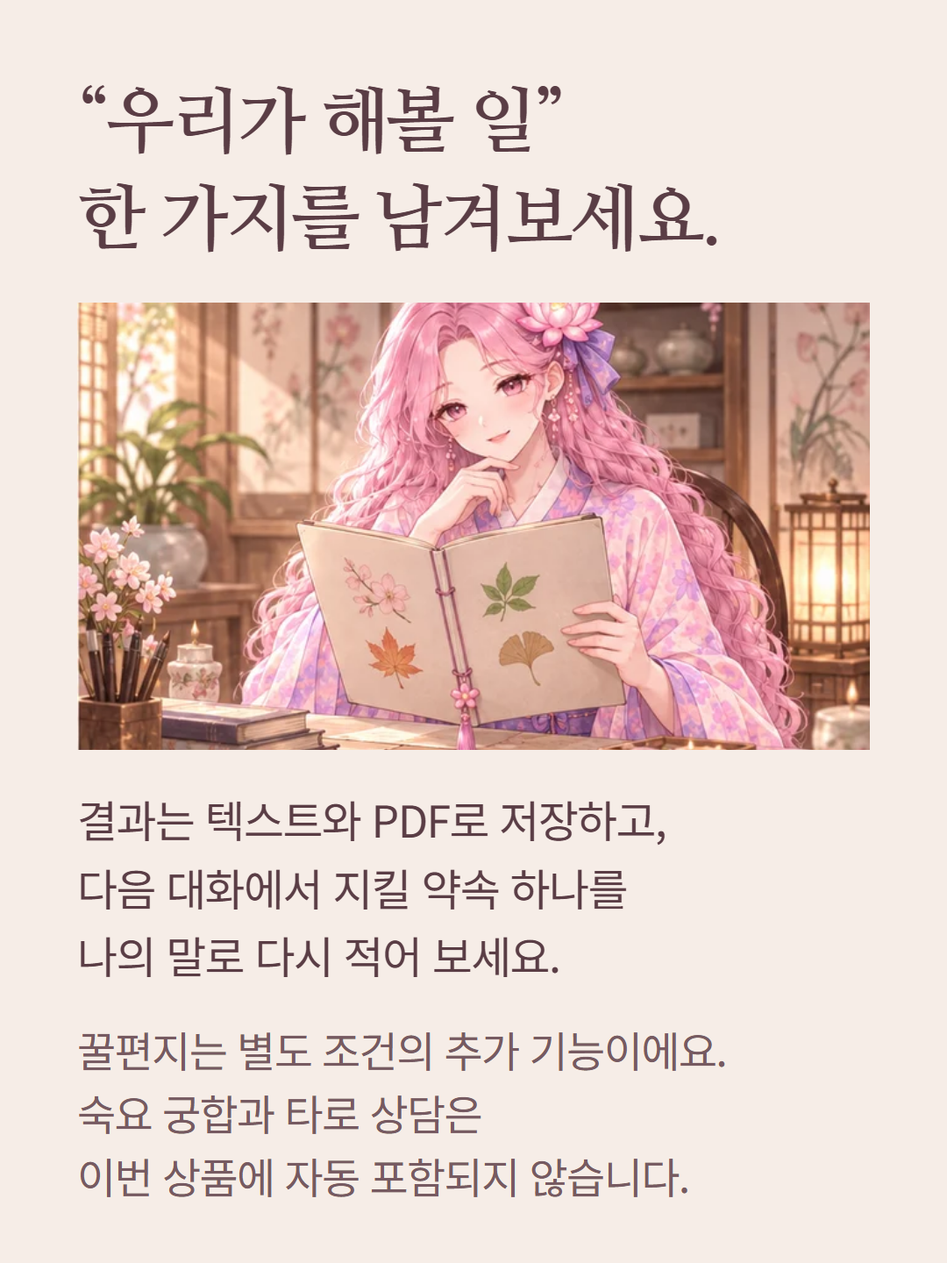
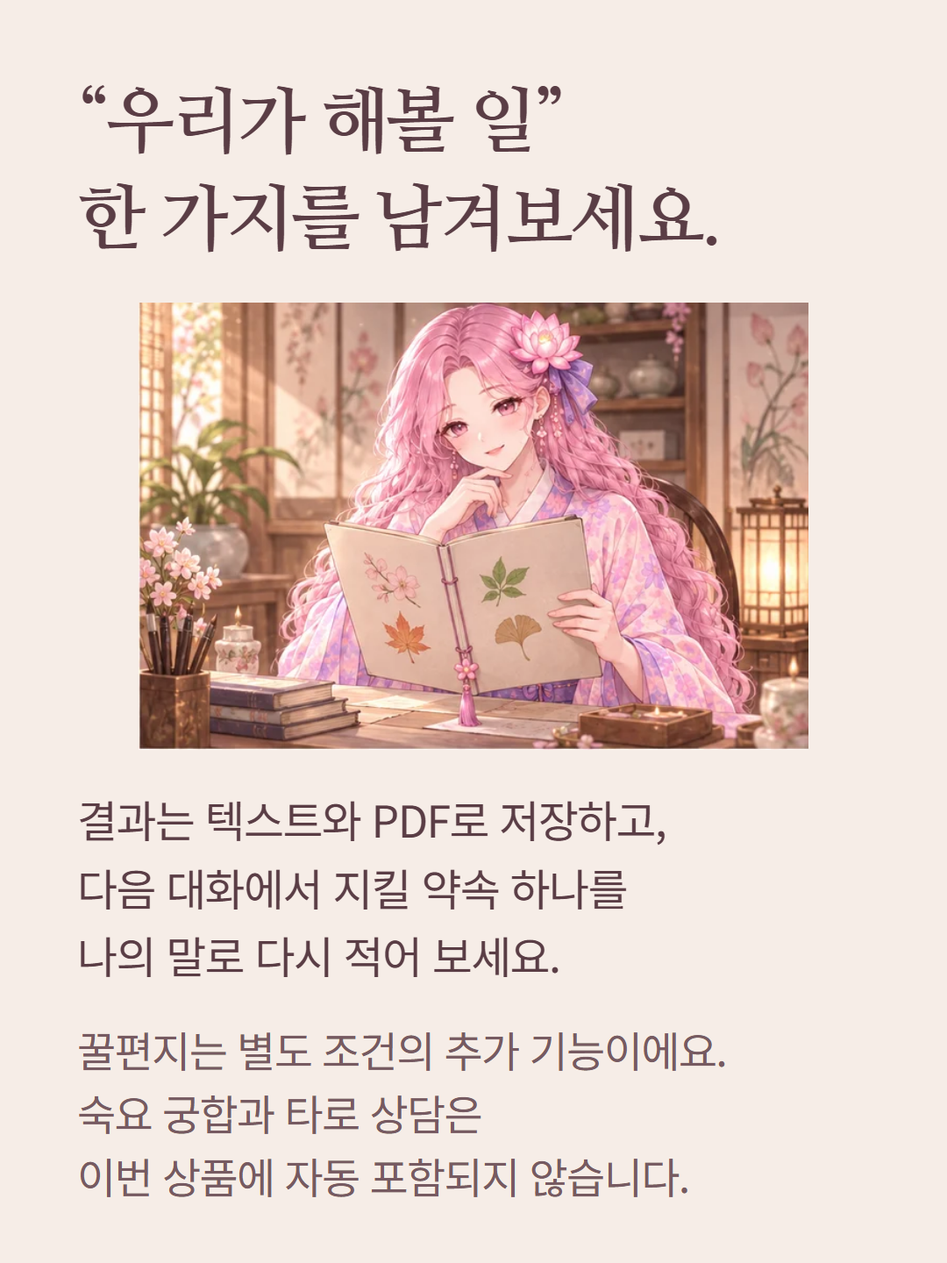
찻집 상세 패널: 잘리던 삽화를 원본 비율로 다시 렌더
- 사주·숙요 첫 장면은 높이를 원본 비율로, 사주 궁합 8장은 높이를 지키고 폭을 원본 비율로 가운데 정렬
- 타로 5장 마지막 장면은 세로 원본을 가로로 자르던 것을 같은 찻집 원본의 가로판으로 바꿔 통째로 보여줌
- 렌더 단계의 넘침·이미지 잘림 검사를 모두 통과(렌더 결과는 바뀐 패널만 갱신)

Changed region(s): [[0.0611, 0.2188, 0.9167, 0.5938]]

diff --git a/content/product-details/tea-tarot-five/editable-layout.html b/content/product-details/tea-tarot-five/editable-layout.html
@@ -1,1 +1,1 @@
-<!doctype html><html lang="ko"><meta charset="utf-8"><link rel="stylesheet" href="/styles/service-intro-fonts.css"><link rel="stylesheet" href="/source/layout.css"><body><section class="panel p1" data-num="1"><h1>먼저 연락할까요?<br>그 전에 살펴볼 마음.</h1><p>하고 싶은 말, 망설이는 이유,<br>지켜야 할 선을 나누어 읽어요.</p><div class="still-life"><img class="card" src="/images/fortune-tea-house/moonlight-tarot-card-back.webp" alt=""><img class="pig" src="/images/fortune-tea-house/flower-pig-tea.webp" alt=""></div><p class="sign">운명의 찻집 · 타로 5장<br>복잡한 마음에, 다섯 개의 질문.</p></section><section class="panel p2" data-num="2"><h2>연락하기 전,<br>다섯 번의 작은 멈춤.</h2><p class="label">5장 배열 · 먼저 연락해도 괜찮을까?</p><ol class="pauses"><li><h3>내가 바라는 것</h3><p>정말 전하고 싶은 마음은 무엇인지.</p></li><li><h3>현재 소통 양상</h3><p>지금 두 사람의 대화는 어떤지.</p></li><li><h3>접근의 걸림돌</h3><p>다가가기 어렵게 하는 조건은.</p></li><li><h3>존중할 경계</h3><p>넘지 말아야 할 선은 어디인지.</p></li><li><h3>연락을 선택했을 때의 흐름</h3><p>내가 고른 행동을 어떻게 이어갈지.</p></li></ol></section><section class="panel p3" data-num="3"><h2>새 인연과 돈의 습관도,<br>다른 자리로 읽어요.</h2><section class="other"><h3>새로운 인연을 맞이하는 문</h3><p>준비 상태 · 드러낼 매력<br>내려놓을 패턴 · 만남을 넓힐 행동<br>관계를 시작할 때의 조언</p></section><section class="other"><h3>돈을 대하는 내 패턴</h3><p>현재 태도 · 자원 활용<br>소모 패턴 · 놓친 관리 과제<br>실천할 습관</p></section><p class="note">상담 한 번에 배열 하나를 선택해요.<br>세 배열을 모두 받는 묶음이 아닙니다.<br>돈 배열은 수익을 예측·보장하지 않아요.</p></section><section class="panel p4" data-num="4"><h2>더 정확한 등급보다,<br>더 나누어 볼 질문.</h2><blockquote>3장은 매듭과 한 걸음을.<br>5장은 선택의 조건을 더 나누어.</blockquote><p>각 카드에는 같은 읽기 원칙이 있어요.</p><div class="reading"><p>상징과 정·역방향의 핵심 의미</p><p>지금 상황에 비추어 본 모습</p><p>내 질문과 연결되는 지점</p><p>선택할 행동과 조심할 조건</p></div><p class="note">5장이라고 상대의 마음을<br>더 확실하게 알아내는 것은 아니에요.</p></section><section class="panel p5" data-num="5"><h2>마음을 전하는 말에도,<br>쉴 틈을 남겨요.</h2><p class="label">대화와 경계를 연결한 편집 예시</p><div class="message"><p>다음 주에 차 한 잔 어때요?<br>요즘 여유가 없다면 괜찮아요.<br>편할 때 알려 주세요.</p></div><div class="margin-notes"><section><h3>내 마음은 분명하게</h3><p>만나고 싶다는 뜻을 숨기지 않아요.</p></section><section><h3>상대의 선택은 열어 두고</h3><p>거절과 침묵을 재촉하지 않아요.</p></section></div><p class="note">가상의 대화 예시예요. 상대가 연락을<br>원하지 않으면 그 의사를 존중해요.</p></section><section class="panel p6" data-num="6"><h2>다섯 장을 지나,<br>하나의 이야기로.</h2><div class="chapters five"><section><b>질문</b><p>핵심 답변과 우선할 조언.</p></section><section><b>카드</b><p>다섯 장의 개별 해석,<br>카드 사이에서 이어지는 의미.</p></section><section><b>상담</b><p>종합 해석과 연이가 건넨 말.<br>가능한 선택과 행동 조언.</p></section><section><b>이후</b><p>앞으로 한 달의 흐름, 관계 처방,<br>실행 체크리스트.</p></section><section><b>마무리</b><p>지금의 나에게 남기는 메시지.</p></section></div><p class="note">본문은 공백 제외 11,200자 이상이에요.<br>연결·선택은 내용이 있을 때 표시돼요.<br>사주 해석은 포함하지 않아요.</p></section><section class="panel p7" data-num="7"><h2>질문을 적고,<br>다섯 자리를 골라요.</h2><div class="steps"><section><h3>상황과 질문을 적어요</h3><p>관계 단계나 실제로 겪는 일을<br>아는 만큼만 알려 주세요.</p></section><section><h3>맞는 5장 배열을 확인해요</h3><p>로그인 후 직접 다섯 자리를 고르거나<br>자동 선택으로 확정할 수 있어요.</p></section><section><h3>카드를 확인하고 상담을 시작해요</h3><p>결제 후 돌아오거나 다시 시도해도<br>확정한 같은 카드를 읽어요.</p></section></div><p class="note">3장 배열로 바꾸면 다른 상품입니다.<br>카드 수와 화면의 가격을 먼저 확인해요.</p></section><section class="panel p8" data-num="8"><h2>길게 읽었어도,<br>실천은 하나부터.</h2><div class="notebook"><h3>이번 주에 해볼 일</h3><p>___________________</p><h3>내가 지키고 싶은 선</h3><p>___________________</p><h3>다시 확인할 현실의 정보</h3><p>___________________</p></div><p>상담을 텍스트 파일로 저장하고,<br>실제로 달라진 점을 적어 보세요.</p><p class="note">꿀편지는 별도 조건으로 요청해요.<br>기본 상담에 자동 포함되지 않습니다.</p></section><section class="panel p9" data-num="9"><h2>정답을 기다리기보다,<br>내 마음을 알아가요.</h2><img class="moon-window" src="/images/fortune-tea-house/premium-tea-house-mobile.webp" alt=""><p>다가갈 때와 쉬어 갈 때,<br>나의 바람과 상대의 경계를 함께.</p><p class="note">연이는 서비스 캐릭터이며<br>상담 문장은 AI가 작성합니다.<br>사람이 직접 답하는 상담은 아닙니다.</p><p class="sign">운명의 찻집 · 타로 5장<br>선택의 여지를 남기는 다정한 상담.</p></section></body></html>
+<!doctype html><html lang="ko"><meta charset="utf-8"><link rel="stylesheet" href="/styles/service-intro-fonts.css"><link rel="stylesheet" href="/source/layout.css"><body><section class="panel p1" data-num="1"><h1>먼저 연락할까요?<br>그 전에 살펴볼 마음.</h1><p>하고 싶은 말, 망설이는 이유,<br>지켜야 할 선을 나누어 읽어요.</p><div class="still-life"><img class="card" src="/images/fortune-tea-house/moonlight-tarot-card-back.webp" alt=""><img class="pig" src="/images/fortune-tea-house/flower-pig-tea.webp" alt=""></div><p class="sign">운명의 찻집 · 타로 5장<br>복잡한 마음에, 다섯 개의 질문.</p></section><section class="panel p2" data-num="2"><h2>연락하기 전,<br>다섯 번의 작은 멈춤.</h2><p class="label">5장 배열 · 먼저 연락해도 괜찮을까?</p><ol class="pauses"><li><h3>내가 바라는 것</h3><p>정말 전하고 싶은 마음은 무엇인지.</p></li><li><h3>현재 소통 양상</h3><p>지금 두 사람의 대화는 어떤지.</p></li><li><h3>접근의 걸림돌</h3><p>다가가기 어렵게 하는 조건은.</p></li><li><h3>존중할 경계</h3><p>넘지 말아야 할 선은 어디인지.</p></li><li><h3>연락을 선택했을 때의 흐름</h3><p>내가 고른 행동을 어떻게 이어갈지.</p></li></ol></section><section class="panel p3" data-num="3"><h2>새 인연과 돈의 습관도,<br>다른 자리로 읽어요.</h2><section class="other"><h3>새로운 인연을 맞이하는 문</h3><p>준비 상태 · 드러낼 매력<br>내려놓을 패턴 · 만남을 넓힐 행동<br>관계를 시작할 때의 조언</p></section><section class="other"><h3>돈을 대하는 내 패턴</h3><p>현재 태도 · 자원 활용<br>소모 패턴 · 놓친 관리 과제<br>실천할 습관</p></section><p class="note">상담 한 번에 배열 하나를 선택해요.<br>세 배열을 모두 받는 묶음이 아닙니다.<br>돈 배열은 수익을 예측·보장하지 않아요.</p></section><section class="panel p4" data-num="4"><h2>더 정확한 등급보다,<br>더 나누어 볼 질문.</h2><blockquote>3장은 매듭과 한 걸음을.<br>5장은 선택의 조건을 더 나누어.</blockquote><p>각 카드에는 같은 읽기 원칙이 있어요.</p><div class="reading"><p>상징과 정·역방향의 핵심 의미</p><p>지금 상황에 비추어 본 모습</p><p>내 질문과 연결되는 지점</p><p>선택할 행동과 조심할 조건</p></div><p class="note">5장이라고 상대의 마음을<br>더 확실하게 알아내는 것은 아니에요.</p></section><section class="panel p5" data-num="5"><h2>마음을 전하는 말에도,<br>쉴 틈을 남겨요.</h2><p class="label">대화와 경계를 연결한 편집 예시</p><div class="message"><p>다음 주에 차 한 잔 어때요?<br>요즘 여유가 없다면 괜찮아요.<br>편할 때 알려 주세요.</p></div><div class="margin-notes"><section><h3>내 마음은 분명하게</h3><p>만나고 싶다는 뜻을 숨기지 않아요.</p></section><section><h3>상대의 선택은 열어 두고</h3><p>거절과 침묵을 재촉하지 않아요.</p></section></div><p class="note">가상의 대화 예시예요. 상대가 연락을<br>원하지 않으면 그 의사를 존중해요.</p></section><section class="panel p6" data-num="6"><h2>다섯 장을 지나,<br>하나의 이야기로.</h2><div class="chapters five"><section><b>질문</b><p>핵심 답변과 우선할 조언.</p></section><section><b>카드</b><p>다섯 장의 개별 해석,<br>카드 사이에서 이어지는 의미.</p></section><section><b>상담</b><p>종합 해석과 연이가 건넨 말.<br>가능한 선택과 행동 조언.</p></section><section><b>이후</b><p>앞으로 한 달의 흐름, 관계 처방,<br>실행 체크리스트.</p></section><section><b>마무리</b><p>지금의 나에게 남기는 메시지.</p></section></div><p class="note">본문은 공백 제외 11,200자 이상이에요.<br>연결·선택은 내용이 있을 때 표시돼요.<br>사주 해석은 포함하지 않아요.</p></section><section class="panel p7" data-num="7"><h2>질문을 적고,<br>다섯 자리를 골라요.</h2><div class="steps"><section><h3>상황과 질문을 적어요</h3><p>관계 단계나 실제로 겪는 일을<br>아는 만큼만 알려 주세요.</p></section><section><h3>맞는 5장 배열을 확인해요</h3><p>로그인 후 직접 다섯 자리를 고르거나<br>자동 선택으로 확정할 수 있어요.</p></section><section><h3>카드를 확인하고 상담을 시작해요</h3><p>결제 후 돌아오거나 다시 시도해도<br>확정한 같은 카드를 읽어요.</p></section></div><p class="note">3장 배열로 바꾸면 다른 상품입니다.<br>카드 수와 화면의 가격을 먼저 확인해요.</p></section><section class="panel p8" data-num="8"><h2>길게 읽었어도,<br>실천은 하나부터.</h2><div class="notebook"><h3>이번 주에 해볼 일</h3><p>___________________</p><h3>내가 지키고 싶은 선</h3><p>___________________</p><h3>다시 확인할 현실의 정보</h3><p>___________________</p></div><p>상담을 텍스트 파일로 저장하고,<br>실제로 달라진 점을 적어 보세요.</p><p class="note">꿀편지는 별도 조건으로 요청해요.<br>기본 상담에 자동 포함되지 않습니다.</p></section><section class="panel p9" data-num="9"><h2>정답을 기다리기보다,<br>내 마음을 알아가요.</h2><img class="moon-window" src="/images/fortune-tea-house/premium-tea-house-desktop.webp" alt=""><p>다가갈 때와 쉬어 갈 때,<br>나의 바람과 상대의 경계를 함께.</p><p class="note">연이는 서비스 캐릭터이며<br>상담 문장은 AI가 작성합니다.<br>사람이 직접 답하는 상담은 아닙니다.</p><p class="sign">운명의 찻집 · 타로 5장<br>선택의 여지를 남기는 다정한 상담.</p></section></body></html>

diff --git a/content/product-details/tea-saju-compat/layout.css b/content/product-details/tea-saju-compat/layout.css
@@ -1,2 +1,2 @@
-*{box-sizing:border-box}body{margin:0;background:#f6ede7;color:#5a3d45;font-family:'Yeongnyangi Noto',sans-serif}.panel{width:1080px;height:1440px;padding:84px 88px;position:relative;overflow:hidden;background:#f6ede7}h1,h2,h3,p{margin:0;word-break:keep-all}h1,h2{font-family:'Yeongnyangi Myeongjo',serif;font-size:82px;line-height:1.35;letter-spacing:-3px;margin-bottom:40px}h3{font-size:50px;line-height:1.4;margin-bottom:14px}p{font-size:50px;line-height:1.55;letter-spacing:-1.6px}.note,.label,.sign{font-size:48px;line-height:1.5}.note{color:#765a61;margin-top:32px}.label{margin-bottom:32px}.sign{margin-top:36px}.two-voices{margin:40px 0 10px}.two-voices p{padding:18px 0}.two-voices p+p{text-align:right}.cups{display:flex;align-items:center;justify-content:center;gap:155px;height:290px;margin:30px 0}.cups i{display:block;width:210px;height:160px;background:#c59a80;border-radius:12px 12px 100px 100px;position:relative;border:1px solid #725246}.cups i:before{content:'';position:absolute;left:12px;right:12px;top:10px;height:28px;border-radius:50%;background:#7f5545}.cups i:after{content:'';position:absolute;width:52px;height:73px;border:1px solid #725246;border-radius:50%;right:-43px;top:27px}.cups i+i{background:#e2c8b1;transform:scaleX(-1)}.person{padding:24px 0;border-top:1px solid #bea3a1}.other{text-align:right}.together{padding:32px;background:#e9d8d0}.person p,.together p{font-size:48px}dl{margin:40px 0 0}dl div{padding:18px 0;border-top:1px solid #bea3a1}dt{font-size:50px;line-height:1.4;font-weight:700}dd{font-size:48px;line-height:1.5;margin:10px 0 0;letter-spacing:-1.6px;word-break:keep-all}.p4{background:#eadbd5}ol{margin:40px 0;padding-left:65px}li{font-size:50px;line-height:1.5;word-break:keep-all;padding:8px 0;border-bottom:1px solid #bea3a1}.reading-path section{padding:26px 0;border-top:1px solid #bea3a1}.reading-path p{font-size:48px}.p6{background:#e6dfd6}.dialogue{margin:35px 0 45px}.dialogue p{padding:35px 30px;background:#f9f0e5;font-size:48px}.dialogue p+p{margin:28px 0 0 65px;background:#d8d0c2}.scene{display:block;width:904px;height:510px;object-fit:cover;margin:35px 0 40px}.p9{background:#4e3642;color:#f8eee4}.p9 p+p{margin-top:35px}.p9 .note{color:#e4cdd0}.p9 .cups{margin:40px 0}
+*{box-sizing:border-box}body{margin:0;background:#f6ede7;color:#5a3d45;font-family:'Yeongnyangi Noto',sans-serif}.panel{width:1080px;height:1440px;padding:84px 88px;position:relative;overflow:hidden;background:#f6ede7}h1,h2,h3,p{margin:0;word-break:keep-all}h1,h2{font-family:'Yeongnyangi Myeongjo',serif;font-size:82px;line-height:1.35;letter-spacing:-3px;margin-bottom:40px}h3{font-size:50px;line-height:1.4;margin-bottom:14px}p{font-size:50px;line-height:1.55;letter-spacing:-1.6px}.note,.label,.sign{font-size:48px;line-height:1.5}.note{color:#765a61;margin-top:32px}.label{margin-bottom:32px}.sign{margin-top:36px}.two-voices{margin:40px 0 10px}.two-voices p{padding:18px 0}.two-voices p+p{text-align:right}.cups{display:flex;align-items:center;justify-content:center;gap:155px;height:290px;margin:30px 0}.cups i{display:block;width:210px;height:160px;background:#c59a80;border-radius:12px 12px 100px 100px;position:relative;border:1px solid #725246}.cups i:before{content:'';position:absolute;left:12px;right:12px;top:10px;height:28px;border-radius:50%;background:#7f5545}.cups i:after{content:'';position:absolute;width:52px;height:73px;border:1px solid #725246;border-radius:50%;right:-43px;top:27px}.cups i+i{background:#e2c8b1;transform:scaleX(-1)}.person{padding:24px 0;border-top:1px solid #bea3a1}.other{text-align:right}.together{padding:32px;background:#e9d8d0}.person p,.together p{font-size:48px}dl{margin:40px 0 0}dl div{padding:18px 0;border-top:1px solid #bea3a1}dt{font-size:50px;line-height:1.4;font-weight:700}dd{font-size:48px;line-height:1.5;margin:10px 0 0;letter-spacing:-1.6px;word-break:keep-all}.p4{background:#eadbd5}ol{margin:40px 0;padding-left:65px}li{font-size:50px;line-height:1.5;word-break:keep-all;padding:8px 0;border-bottom:1px solid #bea3a1}.reading-path section{padding:26px 0;border-top:1px solid #bea3a1}.reading-path p{font-size:48px}.p6{background:#e6dfd6}.dialogue{margin:35px 0 45px}.dialogue p{padding:35px 30px;background:#f9f0e5;font-size:48px}.dialogue p+p{margin:28px 0 0 65px;background:#d8d0c2}.scene{display:block;width:auto;max-width:904px;height:510px;margin:35px auto 40px}.p9{background:#4e3642;color:#f8eee4}.p9 p+p{margin-top:35px}.p9 .note{color:#e4cdd0}.p9 .cups{margin:40px 0}
 ol.twelve{margin:28px 0}ol.twelve li{font-size:40px;line-height:1.35;padding:4px 0}.twelve+.note{font-size:40px;margin-top:20px}

diff --git a/content/product-details/tea-tarot-five/layout.css b/content/product-details/tea-tarot-five/layout.css
@@ -1,2 +1,2 @@
-*{box-sizing:border-box}body{margin:0;background:#f6ece4;color:#573844;font-family:'Yeongnyangi Noto',sans-serif}.panel{width:1080px;height:1440px;padding:84px 88px;position:relative;overflow:hidden;background:#f6ece4}h1,h2,h3,p{margin:0;word-break:keep-all}h1,h2{font-family:'Yeongnyangi Myeongjo',serif;font-size:82px;line-height:1.35;letter-spacing:-3px;margin-bottom:40px}h3{font-size:50px;line-height:1.4;margin-bottom:12px}p{font-size:50px;line-height:1.55;letter-spacing:-1.6px}.note,.label{font-size:48px;line-height:1.5;color:#775b63}.note{margin-top:30px}.label{margin-bottom:26px}.p1,.p9{background:#372336;color:#fff0d9}.sign{font-size:48px;color:#edc9ae;margin-top:28px}.still-life{height:530px;position:relative;margin:35px 0}.card{position:absolute;left:90px;top:30px;width:285px;height:428px;transform:rotate(-12deg)}.pig{position:absolute;right:15px;bottom:0;width:460px;height:460px}.pauses{list-style:none;padding:0;margin:0}.pauses li{padding:14px 0;border-top:1px solid #c3a5a0}.pauses p{font-size:48px}.other{padding:36px 0;border-top:1px solid #c3a5a0}.other p{font-size:48px;line-height:1.65}.p3{background:#eaded8}blockquote{font-family:'Yeongnyangi Myeongjo',serif;font-size:58px;line-height:1.5;margin:40px 0;padding:25px 0;border-block:1px solid #b89c99}.reading{margin:34px 0}.reading p{padding:21px 0;border-bottom:1px solid #c3a5a0;font-size:48px}.message{padding:20px 34px;background:#e7d4cd;margin:36px 0}.message p{font-family:'Yeongnyangi Myeongjo',serif;font-size:54px;line-height:1.6}.margin-notes section{padding:14px 0;border-bottom:1px solid #c3a5a0}.margin-notes p{font-size:48px}.chapters section{padding:28px 0 28px 200px;border-top:1px solid #c3a5a0;position:relative}.chapters b{position:absolute;left:0;top:29px;font-size:50px;line-height:1.5;color:#775b63}.chapters p{font-size:48px}.steps section{padding:26px 0;border-top:1px solid #c3a5a0}.steps p{font-size:48px}.notebook{padding:36px 32px;background:#edddd0;margin:32px 0 44px}.notebook h3{margin-top:22px}.notebook p{color:#9e8279;margin-bottom:8px;letter-spacing:0}.moon-window{display:block;width:904px;height:420px;object-fit:cover;object-position:50% 45%;margin:30px 0}.p9 .note{color:#e2cdd9}.p9 p+p{margin-top:28px}
+*{box-sizing:border-box}body{margin:0;background:#f6ece4;color:#573844;font-family:'Yeongnyangi Noto',sans-serif}.panel{width:1080px;height:1440px;padding:84px 88px;position:relative;overflow:hidden;background:#f6ece4}h1,h2,h3,p{margin:0;word-break:keep-all}h1,h2{font-family:'Yeongnyangi Myeongjo',serif;font-size:82px;line-height:1.35;letter-spacing:-3px;margin-bottom:40px}h3{font-size:50px;line-height:1.4;margin-bottom:12px}p{font-size:50px;line-height:1.55;letter-spacing:-1.6px}.note,.label{font-size:48px;line-height:1.5;color:#775b63}.note{margin-top:30px}.label{margin-bottom:26px}.p1,.p9{background:#372336;color:#fff0d9}.sign{font-size:48px;color:#edc9ae;margin-top:28px}.still-life{height:530px;position:relative;margin:35px 0}.card{position:absolute;left:90px;top:30px;width:285px;height:428px;transform:rotate(-12deg)}.pig{position:absolute;right:15px;bottom:0;width:460px;height:460px}.pauses{list-style:none;padding:0;margin:0}.pauses li{padding:14px 0;border-top:1px solid #c3a5a0}.pauses p{font-size:48px}.other{padding:36px 0;border-top:1px solid #c3a5a0}.other p{font-size:48px;line-height:1.65}.p3{background:#eaded8}blockquote{font-family:'Yeongnyangi Myeongjo',serif;font-size:58px;line-height:1.5;margin:40px 0;padding:25px 0;border-block:1px solid #b89c99}.reading{margin:34px 0}.reading p{padding:21px 0;border-bottom:1px solid #c3a5a0;font-size:48px}.message{padding:20px 34px;background:#e7d4cd;margin:36px 0}.message p{font-family:'Yeongnyangi Myeongjo',serif;font-size:54px;line-height:1.6}.margin-notes section{padding:14px 0;border-bottom:1px solid #c3a5a0}.margin-notes p{font-size:48px}.chapters section{padding:28px 0 28px 200px;border-top:1px solid #c3a5a0;position:relative}.chapters b{position:absolute;left:0;top:29px;font-size:50px;line-height:1.5;color:#775b63}.chapters p{font-size:48px}.steps section{padding:26px 0;border-top:1px solid #c3a5a0}.steps p{font-size:48px}.notebook{padding:36px 32px;background:#edddd0;margin:32px 0 44px}.notebook h3{margin-top:22px}.notebook p{color:#9e8279;margin-bottom:8px;letter-spacing:0}.moon-window{display:block;width:auto;max-width:904px;height:420px;margin:30px auto}.p9 .note{color:#e2cdd9}.p9 p+p{margin-top:28px}
 .chapters.five section{padding:20px 0 20px 200px}.chapters.five b{top:21px}.chapters.five p{font-size:44px}.five+.note{font-size:40px;line-height:1.45;margin-top:20px}

diff --git a/content/product-details/tea-sukuyo/layout.css b/content/product-details/tea-sukuyo/layout.css
@@ -1,2 +1,2 @@
-*{box-sizing:border-box}body{margin:0;background:#eceaf1;color:#39374e;font-family:'Yeongnyangi Noto',sans-serif}.panel{width:1080px;height:1440px;padding:84px 88px;position:relative;overflow:hidden;background:#eceaf1}h1,h2,h3,p{margin:0;word-break:keep-all}h1,h2{font-family:'Yeongnyangi Myeongjo',serif;font-size:82px;line-height:1.35;letter-spacing:-3px;margin-bottom:40px}h3{font-size:50px;line-height:1.4;margin-bottom:14px}p{font-size:50px;line-height:1.55;letter-spacing:-1.6px}.note,.label,.sign{font-size:48px;line-height:1.5}.note{color:#615b73;margin-top:32px}.label{margin-bottom:32px}.sign{margin-top:35px}.p1{background:#343448;color:#f5eadd}.scene{display:block;width:904px;height:530px;object-fit:cover;margin:32px 0 40px}.moons{display:flex;gap:35px;margin:45px 0 45px}.moons>div{width:435px;height:360px;border-radius:50%;background:#d4ccdf;display:flex;flex-direction:column;align-items:center;justify-content:center}.moons>div+div{background:#e0d2c9}.moons p{font-size:48px}.connection{margin:50px 0;padding:32px 0;border-block:1px solid #b0a8bf}.connection p{font-size:48px}dl{margin:48px 0 0}dl div{padding:17px 0;border-top:1px solid #b0a8bf}dt{font-size:50px;line-height:1.4;font-weight:700}dd{font-size:48px;line-height:1.5;margin:12px 0 0;letter-spacing:-1.6px;word-break:keep-all}.p4{background:#dfdce8}.direction{padding:20px 0;border-top:1px solid #b0a8bf}.direction p{font-size:48px}.reverse{text-align:right;margin-bottom:40px}ol{margin:38px 0;padding-left:60px}li{font-size:48px;line-height:1.5;word-break:keep-all;letter-spacing:-1.5px;padding:13px 0;border-bottom:1px solid #b0a8bf}.p6{background:#f3e8e1}blockquote{font-family:'Yeongnyangi Myeongjo',serif;font-size:51px;line-height:1.65;letter-spacing:-1px;word-break:keep-all;margin:30px 0 35px}.practice{border-block:1px solid #b7a0a5;padding:30px 0}.practice p{font-size:48px}.p8{background:#343448;color:#f5eadd}.p8 .note{color:#dad2e4}.pig{display:block;width:330px;height:330px;object-fit:contain;margin:35px auto}.p8 p{margin-top:28px}
+*{box-sizing:border-box}body{margin:0;background:#eceaf1;color:#39374e;font-family:'Yeongnyangi Noto',sans-serif}.panel{width:1080px;height:1440px;padding:84px 88px;position:relative;overflow:hidden;background:#eceaf1}h1,h2,h3,p{margin:0;word-break:keep-all}h1,h2{font-family:'Yeongnyangi Myeongjo',serif;font-size:82px;line-height:1.35;letter-spacing:-3px;margin-bottom:40px}h3{font-size:50px;line-height:1.4;margin-bottom:14px}p{font-size:50px;line-height:1.55;letter-spacing:-1.6px}.note,.label,.sign{font-size:48px;line-height:1.5}.note{color:#615b73;margin-top:32px}.label{margin-bottom:32px}.sign{margin-top:35px}.p1{background:#343448;color:#f5eadd}.scene{display:block;width:904px;height:auto;margin:32px 0 40px}.moons{display:flex;gap:35px;margin:45px 0 45px}.moons>div{width:435px;height:360px;border-radius:50%;background:#d4ccdf;display:flex;flex-direction:column;align-items:center;justify-content:center}.moons>div+div{background:#e0d2c9}.moons p{font-size:48px}.connection{margin:50px 0;padding:32px 0;border-block:1px solid #b0a8bf}.connection p{font-size:48px}dl{margin:48px 0 0}dl div{padding:17px 0;border-top:1px solid #b0a8bf}dt{font-size:50px;line-height:1.4;font-weight:700}dd{font-size:48px;line-height:1.5;margin:12px 0 0;letter-spacing:-1.6px;word-break:keep-all}.p4{background:#dfdce8}.direction{padding:20px 0;border-top:1px solid #b0a8bf}.direction p{font-size:48px}.reverse{text-align:right;margin-bottom:40px}ol{margin:38px 0;padding-left:60px}li{font-size:48px;line-height:1.5;word-break:keep-all;letter-spacing:-1.5px;padding:13px 0;border-bottom:1px solid #b0a8bf}.p6{background:#f3e8e1}blockquote{font-family:'Yeongnyangi Myeongjo',serif;font-size:51px;line-height:1.65;letter-spacing:-1px;word-break:keep-all;margin:30px 0 35px}.practice{border-block:1px solid #b7a0a5;padding:30px 0}.practice p{font-size:48px}.p8{background:#343448;color:#f5eadd}.p8 .note{color:#dad2e4}.pig{display:block;width:330px;height:330px;object-fit:contain;margin:35px auto}.p8 p{margin-top:28px}
 ol.eleven{margin:28px 0}ol.eleven li{font-size:42px;line-height:1.35;padding:6px 0}.eleven+.note{font-size:40px;margin-top:20px}

diff --git a/content/product-details/tea-saju/layout.css b/content/product-details/tea-saju/layout.css
@@ -1,2 +1,2 @@
-*{box-sizing:border-box}body{margin:0;background:#f5eee1;color:#473d32;font-family:'Yeongnyangi Noto',sans-serif}.panel{width:1080px;height:1440px;padding:84px 88px;position:relative;overflow:hidden;background:#f5eee1}h1,h2,h3,p{margin:0;word-break:keep-all}h1,h2{font-family:'Yeongnyangi Myeongjo',serif;font-size:82px;line-height:1.35;letter-spacing:-3px;margin-bottom:40px}h3{font-size:50px;line-height:1.4;margin-bottom:14px}p{font-size:50px;line-height:1.55;letter-spacing:-1.6px}.note,.label,.sign{font-size:48px;line-height:1.5}.note{color:#6d5945;margin-top:30px}.label{margin-bottom:34px}.sign{margin-top:36px}.scene{display:block;width:904px;height:540px;object-fit:cover;margin:30px 0 40px}.question-paper{margin:46px 0;background:#e8ddc9;padding:34px}.question-paper h3:not(:first-child){margin-top:42px}.question-paper p{font-size:48px}dl{margin:40px 0 0}dl div{padding:18px 0;border-top:1px solid #b9a68d}dt{font-size:50px;line-height:1.4;font-weight:700}dd{font-size:48px;line-height:1.5;margin:10px 0 0;letter-spacing:-1.6px;word-break:keep-all}.p4{background:#e7e5d8}.guests section{padding:25px 0;border-top:1px solid #aaa690}.guests p{font-size:48px}ol{margin:35px 0;padding-left:60px}li{font-size:50px;line-height:1.5;word-break:keep-all;letter-spacing:-1.5px;padding:17px 0;border-bottom:1px solid #b9a68d}.contents p{font-size:48px;line-height:1.5;padding:5px 0;border-bottom:1px solid #b9a68d}.p7{background:#eadccc}blockquote{font-family:'Yeongnyangi Myeongjo',serif;font-size:51px;line-height:1.65;margin:35px 0 40px;letter-spacing:-1px;word-break:keep-all}.action{padding:28px 0;border-block:1px solid #b9a68d}.action p{font-size:48px}.notebook{margin:40px 0;padding:36px;background:#e8ddc9}.notebook p{font-size:48px}.notebook hr{border:0;border-top:1px solid #b9a68d;margin:45px 0 22px}.p10{background:#39473c;color:#f5eee1}.p10 .note{color:#dfdbc9}.pig{display:block;width:360px;height:360px;object-fit:contain;margin:44px auto}.p10 p{margin-top:32px}
+*{box-sizing:border-box}body{margin:0;background:#f5eee1;color:#473d32;font-family:'Yeongnyangi Noto',sans-serif}.panel{width:1080px;height:1440px;padding:84px 88px;position:relative;overflow:hidden;background:#f5eee1}h1,h2,h3,p{margin:0;word-break:keep-all}h1,h2{font-family:'Yeongnyangi Myeongjo',serif;font-size:82px;line-height:1.35;letter-spacing:-3px;margin-bottom:40px}h3{font-size:50px;line-height:1.4;margin-bottom:14px}p{font-size:50px;line-height:1.55;letter-spacing:-1.6px}.note,.label,.sign{font-size:48px;line-height:1.5}.note{color:#6d5945;margin-top:30px}.label{margin-bottom:34px}.sign{margin-top:36px}.scene{display:block;width:904px;height:auto;margin:30px 0 40px}.question-paper{margin:46px 0;background:#e8ddc9;padding:34px}.question-paper h3:not(:first-child){margin-top:42px}.question-paper p{font-size:48px}dl{margin:40px 0 0}dl div{padding:18px 0;border-top:1px solid #b9a68d}dt{font-size:50px;line-height:1.4;font-weight:700}dd{font-size:48px;line-height:1.5;margin:10px 0 0;letter-spacing:-1.6px;word-break:keep-all}.p4{background:#e7e5d8}.guests section{padding:25px 0;border-top:1px solid #aaa690}.guests p{font-size:48px}ol{margin:35px 0;padding-left:60px}li{font-size:50px;line-height:1.5;word-break:keep-all;letter-spacing:-1.5px;padding:17px 0;border-bottom:1px solid #b9a68d}.contents p{font-size:48px;line-height:1.5;padding:5px 0;border-bottom:1px solid #b9a68d}.p7{background:#eadccc}blockquote{font-family:'Yeongnyangi Myeongjo',serif;font-size:51px;line-height:1.65;margin:35px 0 40px;letter-spacing:-1px;word-break:keep-all}.action{padding:28px 0;border-block:1px solid #b9a68d}.action p{font-size:48px}.notebook{margin:40px 0;padding:36px;background:#e8ddc9}.notebook p{font-size:48px}.notebook hr{border:0;border-top:1px solid #b9a68d;margin:45px 0 22px}.p10{background:#39473c;color:#f5eee1}.p10 .note{color:#dfdbc9}.pig{display:block;width:360px;height:360px;object-fit:contain;margin:44px auto}.p10 p{margin-top:32px}
 .contents.twelve p{font-size:38px;line-height:1.35;padding:3px 0}.twelve+.note{font-size:40px;margin-top:20px}
